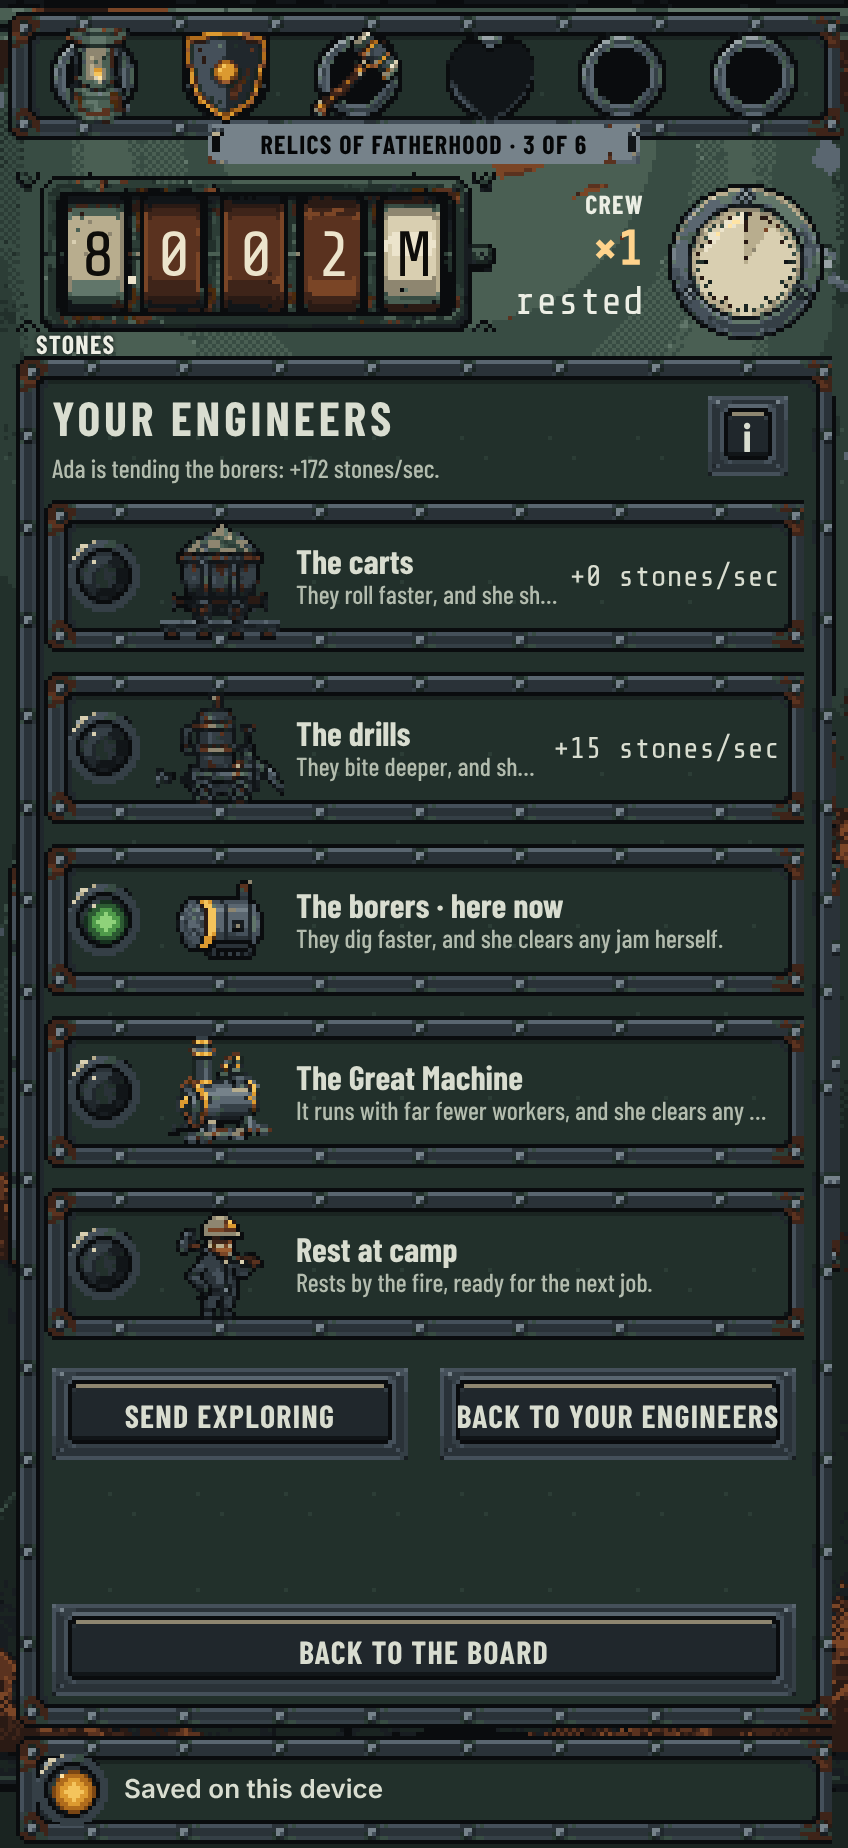
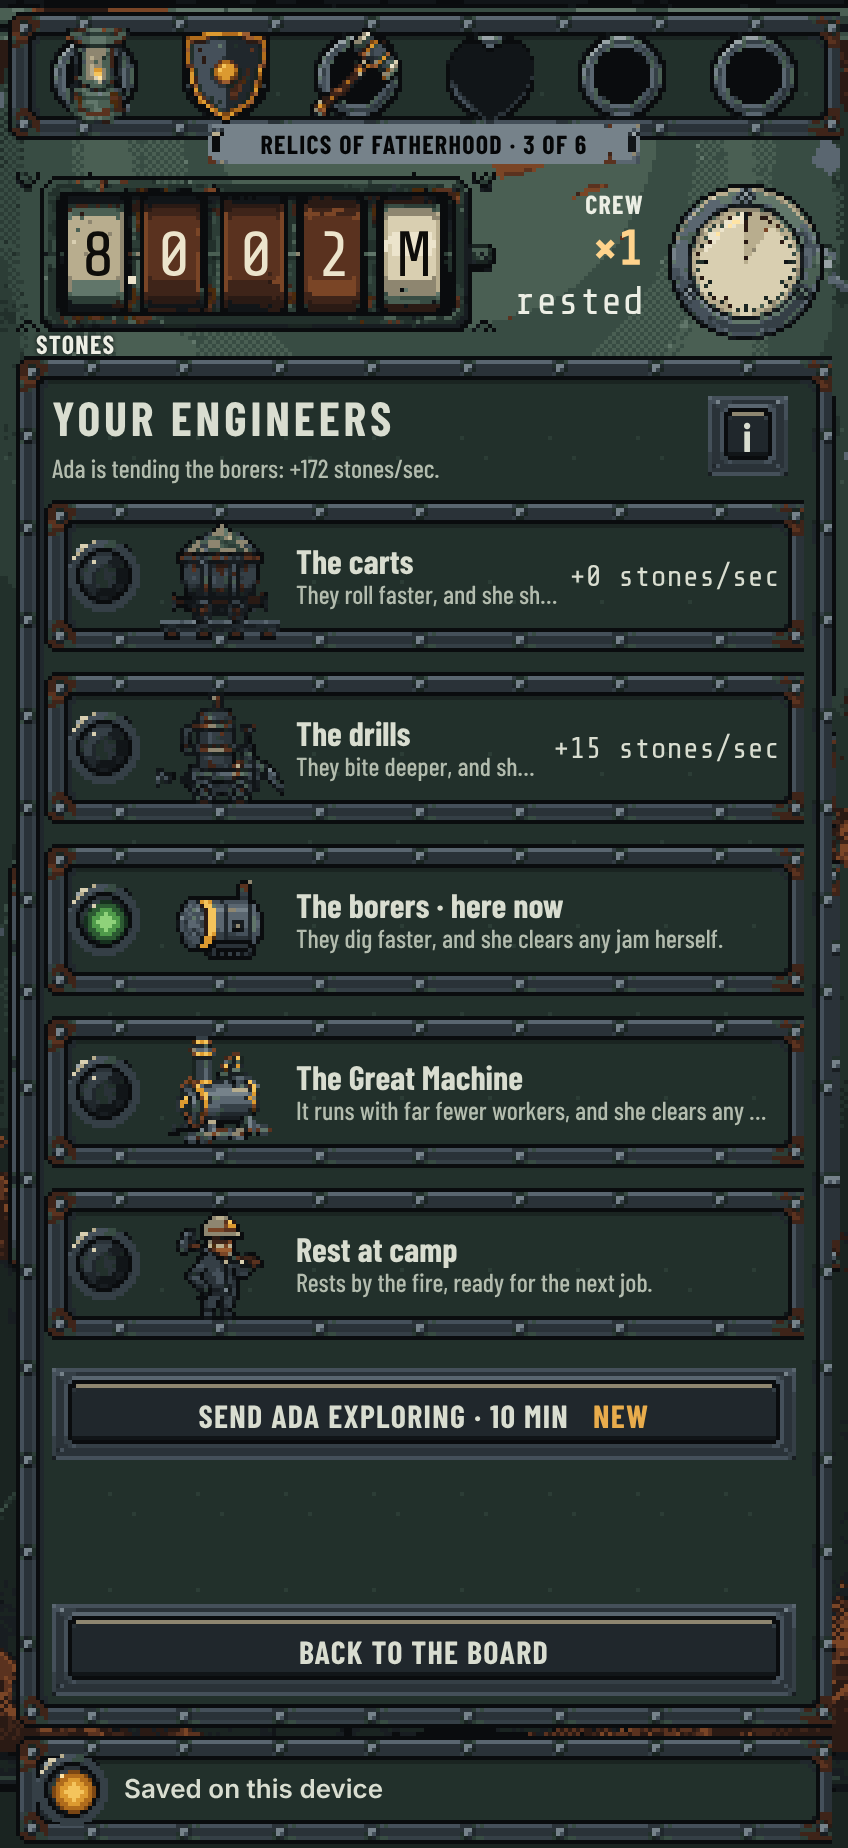
The UI audit reads the guided first trip on her page, with its new shot and docs (#455)
Claude-Session: https://claude.ai/code/session_011RgeWspHUjx1QMk2374KGN

Changed region(s): [[0.1533, 0.7403, 0.9198, 0.8019]]

diff --git a/docs/ui-audit.md b/docs/ui-audit.md
@@ -36,7 +36,7 @@ Bars used below:
 | Workshop, need more      | [shot](ui-audit/workshop-need-more-424x924.png)     | No iron in the pocket (the iron plate reads `0`). Page two's rows read `Need 5 more iron`, `Need 1 more iron` and `Need 4 more iron` in rust on `.workshop-recipe.is-short` rows, with dark lamps and a quiet `Craft`.                                                                                                                                                                                                                                                                                                                                                                                                                                                                                                                                                                                                                                            |
 | Craft done               | [shot](ui-audit/workshop-craft-done-424x924.png)    | A board card (#464): the fitted line is its title (`Your Iron rails are fitted. Carts now …/s.`), the cart's board icon at 64, and one plate, `The crew feels it`, focused as it opens. A short card by the thumb; the board above it dims to the save line.                                                                                                                                                                                                                                                                                                                                                                                                                                                                                                                                                                                                      |
 | Engineers, promote       | [shot](ui-audit/engineers-promote-424x924.png)      | The Engineers drawer (#455): Ada's row (`Apprentice`, `Tending the borers`) and the Promote row at the list's end, with the real price on its tag (labelled `Promote: … stones`) and the verb `Promote`. A tap asks on a drawer page: `… steps up as engineer. One worker fewer at the machines.`, with `Not yet` and `Step up`.                                                                                                                                                                                                                                                                                                                                                                                                                                                                                                                                  |
-| Engineers, her page      | [shot](ui-audit/engineers-page-424x924.png)         | Ada's page inside the drawer: five post rows with their machines' art, the borers `here now` with a green lamp, each other built tier's live gain (`+N stones/sec`), and two plates: the guided first trip, fitted to `Send exploring` on the half-width plate with `Send Ada exploring · 10 min` on its label, and `Back to your engineers`. Her duty sentence, with her own post's gain, is the kick.                                                                                                                                                                                                                                                                                                                                                                                                                                                           |
+| Engineers, her page      | [shot](ui-audit/engineers-page-424x924.png)         | Ada's page inside the drawer: five post rows with their machines' art, the borers `here now` with a green lamp, each other built tier's live gain (`+N stones/sec`), and the guided first trip alone across the plate row, `Send Ada exploring · 10 min` with the amber `New` flag; the drawer's `Back to the board` stays. Her duty sentence, with her own post's gain, is the kick.                                                                                                                                                                                                                                                                                                                                                                                                                                                                             |
 | Engineers, expedition    | [shot](ui-audit/engineers-expedition-424x924.png)   | Ada is out: her row's icon cell is the tunnel mouth with the miner walking home in hard steps, and its line is words (`Exploring the old shaft · gone about an hour`), not a clock.                                                                                                                                                                                                                                                                                                                                                                                                                                                                                                                                                                                                                                                                               |
 | Engineers, homecoming    | [shot](ui-audit/engineers-homecoming-424x924.png)   | The welcome board card (#464): `Welcome home` names who came back and what they carried, and the Engineers drawer is shut under it. No digits, on purpose. One plate, `Back to the mountain`.                                                                                                                                                                                                                                                                                                                                                                                                                                                                                                                                                                                                                                                                     |
 | Relic tease              | [shot](ui-audit/relic-tease-424x924.png)            | The Ledger's relics row: the next relic dark at 48, `Next: … · Almost there` and the guide bar at the row's foot. On the board, the next relic is the dark socket; a tap shows its vague hint.                                                                                                                                                                                                                                                                                                                                                                                                                                                                                                                                                                                                                                                                    |

diff --git a/docs/DESIGN.md b/docs/DESIGN.md
@@ -321,7 +321,7 @@ Veterans return as **engineers**: a few named, experienced hands (never more tha
   - The deep dark sometimes brings one home: "Your party found a lost engineer, who joined your crew."
 - **Names**, a closed list, one each: Ada, Nils, Ruth, Otto, Mae. Never more than five.
 - **Ranks**, not numbers: _Apprentice_ → _Journeyman_ → _Master engineer_, shown as one, two or three small lamps on the engineer's badge. An engineer rises a rank after enough expeditions (3, then 6 more); the UI says "nearly a Journeyman" (or "nearly a Master") when one expedition away, and never a trip count. Built (#145).
-- **Drawer (#145, #161, a board drawer since #455).** From the first engineer, the Engineers key on the rail opens the Engineers drawer, like Buys and the Workshop. Its list is one 76px row per engineer, then Brought home once keepsakes are home, then Promote. A row shows her name with her rank as a word (Apprentice, Journeyman, Master engineer; "nearly a Journeyman" when one trip away), and where she is ("Tending the borers"). While she is out exploring, her row's icon is a tunnel mouth with the board's miner walking across it in hard steps, and its line stays vague ("Exploring the old shaft · gone about an hour"). Under reduced motion he stands still. A tap on her row opens her page inside the drawer: five post rows (the carts, the drills, the borers, the Great Machine, and Rest at camp), each with its machine's art, one line about what it does (carts get a cave-in, drills a flood, borers and the Great Machine a jam; the Great Machine also runs with far fewer workers) and the live gain from staffed machines ("+6 stones/sec"). Her post reads "here now" with a green lamp, and its gain is in the kick, not the row. Under the posts are two plates: Send exploring, which opens the tunnels page, or Call her back while she is out, and Back to your engineers. On the first visit her row is the amber New one under the intro kick, and her left plate is the guided first trip ("Send Ada exploring · 10 min"), which sends the side seam at once. Her duty sentence is the page's kick ("Ada is tending the borers: +35 stones/sec."). A post that lands holds its row's Done for 1.9s, and the cheer stands in the kick for 2.2s ("Ada heads to the drills! +6 stones/sec"). Choosing a post while she is away still calls the party back first. Call her back asks first, on a drawer page with Keep exploring and Call back; she comes home empty-handed. Brought home's row names the keepsakes, and its page tells each story at reading size. There are never more than three levels: the list, her page, and the tunnels or an ask. Back, the scrim and Escape close the whole drawer from any page, and change nothing. The "i" shows How it works for engineers and expeditions; the tending card is not in it, since every post row says what tending does. Every list and page fits the drawer at 424×924 with no scroll, except a full crew of five with keepsakes, whose seven rows scroll inside the drawer (C1). A Welcome home that opens by itself closes the drawer. No new art except three board icons for the "i" cards.
+- **Drawer (#145, #161, a board drawer since #455).** From the first engineer, the Engineers key on the rail opens the Engineers drawer, like Buys and the Workshop. Its list is one 76px row per engineer, then Brought home once keepsakes are home, then Promote. A row shows her name with her rank as a word (Apprentice, Journeyman, Master engineer; "nearly a Journeyman" when one trip away), and where she is ("Tending the borers"). While she is out exploring, her row's icon is a tunnel mouth with the board's miner walking across it in hard steps, and its line stays vague ("Exploring the old shaft · gone about an hour"). Under reduced motion he stands still. A tap on her row opens her page inside the drawer: five post rows (the carts, the drills, the borers, the Great Machine, and Rest at camp), each with its machine's art, one line about what it does (carts get a cave-in, drills a flood, borers and the Great Machine a jam; the Great Machine also runs with far fewer workers) and the live gain from staffed machines ("+6 stones/sec"). Her post reads "here now" with a green lamp, and its gain is in the kick, not the row. Under the posts are two plates: Send exploring, which opens the tunnels page, or Call her back while she is out, and Back to your engineers. On the first visit her row is the amber New one under the intro kick, and the guided first trip ("Send Ada exploring · 10 min", with the rows' amber New flag) takes the whole plate row, which sends the side seam at once; the drawer's own Back to the board stays the way out. A plate's words sit on its key face; Back to your engineers, which has no shorter words, drops to 14px where it would run onto the frame. The guided first tend's New post row, and its cheer, read the move's net gain (what she makes there less what she leaves). A cheer only follows a move that landed. Her duty sentence is the page's kick ("Ada is tending the borers: +35 stones/sec."). A post that lands holds its row's Done for 1.9s, and the cheer stands in the kick for 2.2s ("Ada heads to the drills! +6 stones/sec"). Choosing a post while she is away still calls the party back first. Call her back asks first, on a drawer page with Keep exploring and Call back; she comes home empty-handed. Brought home's row names the keepsakes, and its page tells each story at reading size. There are never more than three levels: the list, her page, and the tunnels or an ask. Back, the scrim and Escape close the whole drawer from any page, and change nothing. The "i" shows How it works for engineers and expeditions on the list, and for tending on her page. Every list and page fits the drawer at 424×924 with no scroll, except a full crew of five with keepsakes, whose seven rows scroll inside the drawer (C1). A Welcome home that opens by itself closes the drawer. No new art except three board icons for the "i" cards.
 - **Uses (each engineer does one thing at a time):**
   1. **Lead an expedition**: one engineer per expedition; the deep dark needs a Journeyman or better.
   2. **Tend a machine type**: stationed at carts, drills, borers or the Great Machine, that tier runs a little faster (Apprentice +10%, Journeyman +20%, Master +30%; live and away). On the borer those tenths are seven quarters: an apprentice is +17.5%, a journeyman +35%, a master +52.5% (#210). Two at the same tier do not stack; the higher rank sets the pace. Away on an expedition, or waiting at camp, the bonus stops. Tending the Great Machine also replaces most of its crew: **5 workers instead of 10** (any rank; the speed bonus is separate; #144 had 25). Untended, it still needs 10. Built in `effectiveRates` (#144).
